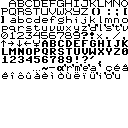
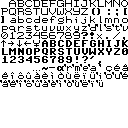
account for EVEN MORE contractions

Changed region(s): [[0.0, 0.625, 0.8125, 0.6875], [0.9375, 0.5625, 1.0, 0.625], [0.6562, 0.0, 0.6875, 0.0625]]

diff --git a/tools/csv2asm.py b/tools/csv2asm.py
@@ -114,7 +114,21 @@ with open(csv_name, "r") as csv_file:
             "'i" : "𝖎",
             "'o" : "𝖔",
             "'u" : "𝖚",
-            "..." : "⋯"
+            "..." : "⋯",
+            "'é": "𝗲",
+            "'â": "𝐚",
+            "'ê": "𝐞",
+            "'î": "𝐢",
+            "'ô": "𝐨",
+            "'û": "𝐮",
+            "'à": "𝑎",
+            "'è": "𝑒",
+            "'ì": "𝑖",
+            "'ò": "𝑜",
+            "'ù": "𝑢",
+            "'ë": "𝒆",
+            "'ï": "𝒊",
+            "'ü": "𝒖"
         }
         for og, fr in contractions.items():
             translated = translated.replace(og, fr)
